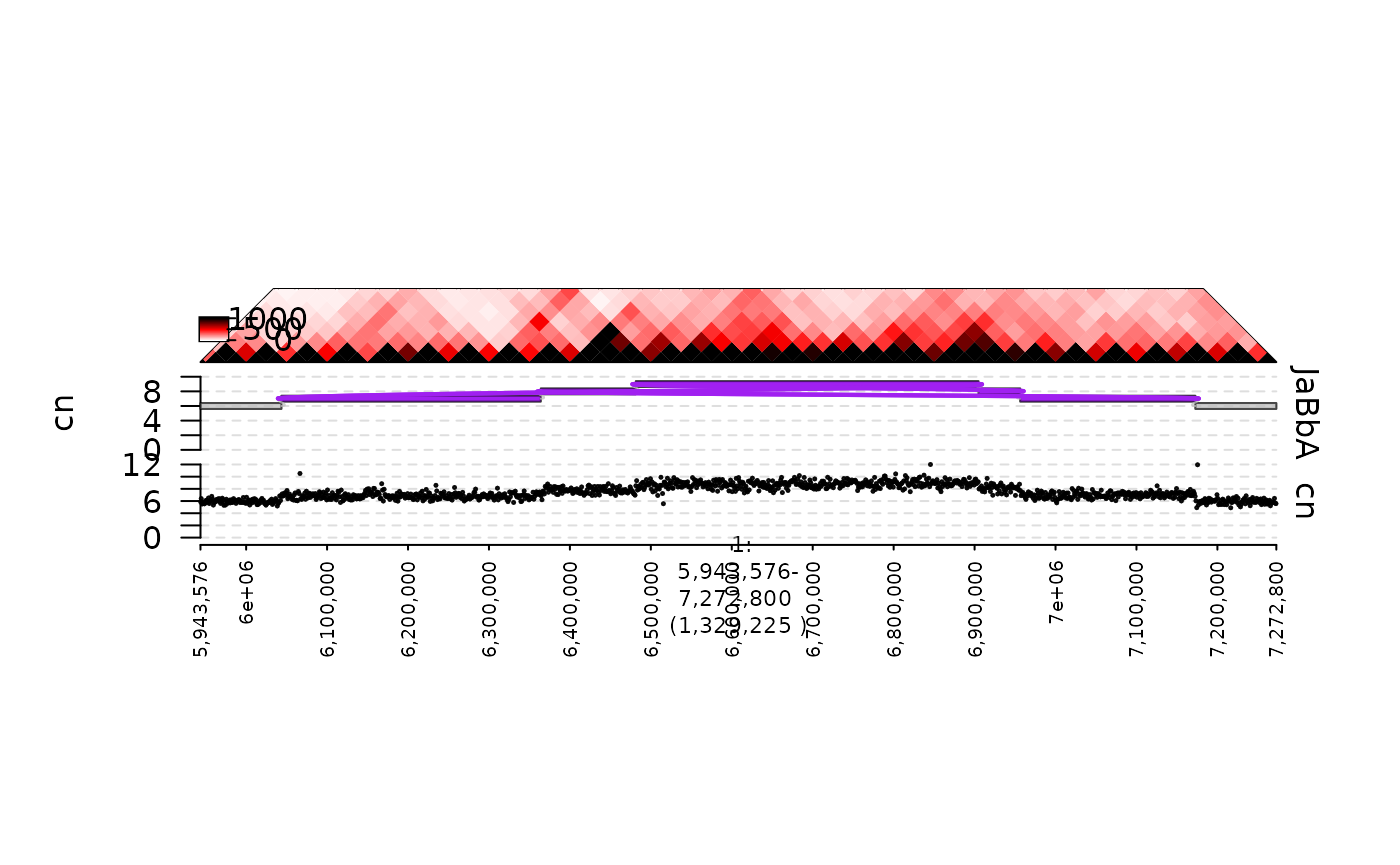
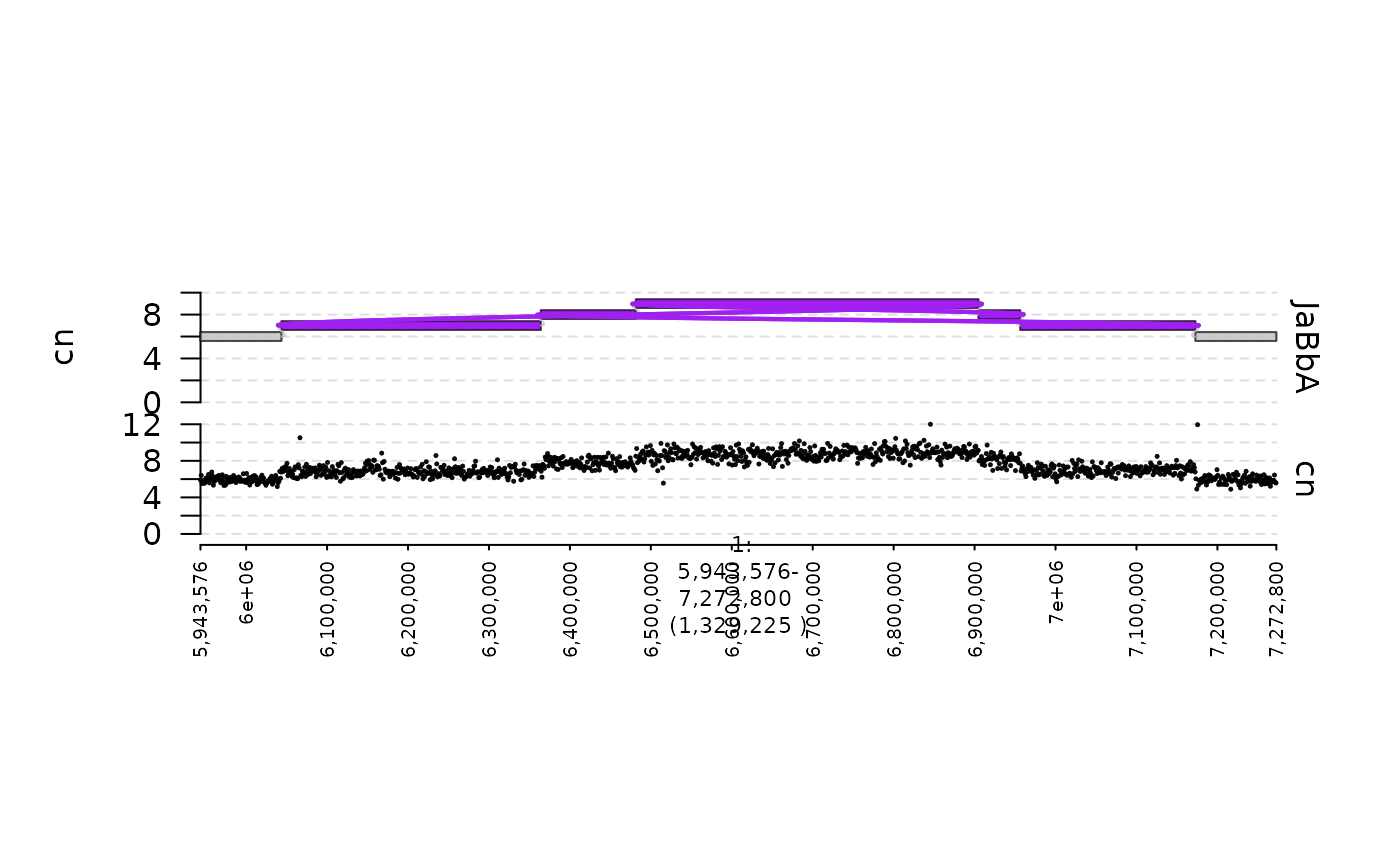
finish quickstart

Changed region(s): [[0.0921, 0.3121, 0.9521, 0.6243], [0.0307, 0.4682, 0.0614, 0.4994], [0.0307, 0.3746, 0.0614, 0.4058]]

diff --git a/docs/articles/quickstart.html b/docs/articles/quickstart.html
@@ -132,7 +132,7 @@
 <div class="section level3">
 <h3 id="multiple-plots">Multiple plots<a class="anchor" aria-label="anchor" href="#multiple-plots"></a>
 </h3>
-<p>A useful feature of <code>gTrack</code> objects is that multiple tracks can be concatenated to produce stacked subplots, as shown in the following example.</p>
+<p>A useful feature of <code>gTrack</code> objects is that multiple tracks can be concatenated to produce stacked subplots, as shown in the following example. The direction of concatenation is from the bottom up (so the first <code>gTrack</code> corresponds with the bottom-most subplot and the final <code>gTrack</code> corresponds with the top-most subplot).</p>
 <div class="sourceCode" id="cb5"><pre class="downlit sourceCode r">
 <code class="sourceCode R"><span><span class="va">concatenated.gt</span> <span class="op">=</span> <span class="fu"><a href="../reference/c-methods.html">c</a></span><span class="op">(</span><span class="va">coverage.gt</span>, <span class="va">coverage.bars.gt</span>, <span class="va">coverage.lines.gt</span><span class="op">)</span></span>
 <span></span>
@@ -155,39 +155,66 @@
 <p><img src="quickstart_files/figure-html/unnamed-chunk-7-1.png" width="700" height="10"></p>
 </div>
 <div class="section level2">
-<h2 id="matrix">Matrix<a class="anchor" aria-label="anchor" href="#matrix"></a>
+<h2 id="matrices">Matrices<a class="anchor" aria-label="anchor" href="#matrices"></a>
 </h2>
-<p>A <code>gTrack</code> can be created from a <code>GRanges</code> and corresponding <code>Matrix</code> in order to plot associations between two genomic ranges. One example of this would be a heatmap, where the color of each cell is proportional to some value defined by its corresponding genomic regions, such as number of shared read pairs.</p>
+<div class="section level3">
+<h3 id="heatmaps-mdata">Heatmaps (mdata)<a class="anchor" aria-label="anchor" href="#heatmaps-mdata"></a>
+</h3>
+<p>A <code>gTrack</code> can be created from a <code>GRanges</code> and a corresponding adjacency matrix in order to plot associations between two genomic ranges. One example of this would be a heatmap, where the color of each cell is proportional to some value defined by its corresponding genomic regions.</p>
+<p>In this example, we will create a heatmap of the number of shared read <code>qname</code>s between pairs of genomic intervals. We will read a <code>GRanges</code> and associated <code>matrix</code> and create a <code>gTrack</code> from these inputs, which we will plot alongside the coverage.</p>
+<p>As you can see, the off-diagonal elements correspond with copy number changep points in the coverage!</p>
+<div class="sourceCode" id="cb7"><pre class="downlit sourceCode r">
+<code class="sourceCode R"><span><span class="va">mdata.mat</span> <span class="op">=</span> <span class="fu"><a href="https://rdrr.io/r/base/readRDS.html" class="external-link">readRDS</a></span><span class="op">(</span><span class="fu"><a href="https://rdrr.io/r/base/system.file.html" class="external-link">system.file</a></span><span class="op">(</span><span class="st">"extdata"</span>, <span class="st">"ovcar.subgraph.mdata.mat.rds"</span>, package <span class="op">=</span> <span class="st">"gTrack"</span><span class="op">)</span><span class="op">)</span></span>
+<span><span class="va">mdata.gr</span> <span class="op">=</span> <span class="fu"><a href="https://rdrr.io/r/base/readRDS.html" class="external-link">readRDS</a></span><span class="op">(</span><span class="fu"><a href="https://rdrr.io/r/base/system.file.html" class="external-link">system.file</a></span><span class="op">(</span><span class="st">"extdata"</span>, <span class="st">"ovcar.subgraph.mdata.gr.rds"</span>, package <span class="op">=</span> <span class="st">"gTrack"</span><span class="op">)</span><span class="op">)</span></span>
+<span></span>
+<span><span class="va">heatmap.gt</span> <span class="op">=</span> <span class="fu"><a href="../reference/gTrack-class.html">gTrack</a></span><span class="op">(</span><span class="va">mdata.gr</span>, mdata <span class="op">=</span> <span class="va">mdata.mat</span>, cmap.max <span class="op">=</span> <span class="fl">10</span><span class="op">)</span></span>
+<span></span>
+<span><span class="fu"><a href="https://rdrr.io/r/graphics/plot.default.html" class="external-link">plot</a></span><span class="op">(</span><span class="fu"><a href="../reference/c-methods.html">c</a></span><span class="op">(</span><span class="va">coverage.gt</span>, <span class="va">heatmap.gt</span><span class="op">)</span>, <span class="va">fp</span> <span class="op">+</span> <span class="fl">1e5</span><span class="op">)</span></span></code></pre></div>
+<p><img src="quickstart_files/figure-html/unnamed-chunk-8-1.png" width="700" height="10"></p>
+</div>
+<div class="section level3">
+<h3 id="connections-edges">Connections (edges)<a class="anchor" aria-label="anchor" href="#connections-edges"></a>
+</h3>
+<p>Instead of a heatmap, it is also possible to plot the edges between genomic intervals by supplying an adjacency list. In this next example, we will plot edges associated with the off-diagonal squares in the previous heatmap.</p>
+<div class="sourceCode" id="cb8"><pre class="downlit sourceCode r">
+<code class="sourceCode R"><span><span class="va">edges.dat</span> <span class="op">=</span> <span class="fu"><a href="https://rdrr.io/r/base/readRDS.html" class="external-link">readRDS</a></span><span class="op">(</span><span class="fu"><a href="https://rdrr.io/r/base/system.file.html" class="external-link">system.file</a></span><span class="op">(</span><span class="st">"extdata"</span>, <span class="st">"ovcar.subgraph.edges.dat.rds"</span>, package <span class="op">=</span> <span class="st">"gTrack"</span><span class="op">)</span><span class="op">)</span></span>
+<span><span class="va">edges.gr</span> <span class="op">=</span> <span class="fu"><a href="https://rdrr.io/r/base/readRDS.html" class="external-link">readRDS</a></span><span class="op">(</span><span class="fu"><a href="https://rdrr.io/r/base/system.file.html" class="external-link">system.file</a></span><span class="op">(</span><span class="st">"extdata"</span>, <span class="st">"ovcar.subgraph.edges.gr.rds"</span>, package <span class="op">=</span> <span class="st">"gTrack"</span><span class="op">)</span><span class="op">)</span></span>
+<span></span>
+<span><span class="va">edges.gt</span> <span class="op">=</span> <span class="fu"><a href="../reference/gTrack-class.html">gTrack</a></span><span class="op">(</span><span class="va">edges.gr</span>, edges <span class="op">=</span> <span class="va">edges.dat</span><span class="op">)</span></span>
+<span></span>
+<span><span class="fu"><a href="https://rdrr.io/r/graphics/plot.default.html" class="external-link">plot</a></span><span class="op">(</span><span class="fu"><a href="../reference/c-methods.html">c</a></span><span class="op">(</span><span class="va">coverage.gt</span>, <span class="va">edges.gt</span><span class="op">)</span>, <span class="va">fp</span> <span class="op">+</span> <span class="fl">1e5</span><span class="op">)</span></span></code></pre></div>
+<p><img src="quickstart_files/figure-html/unnamed-chunk-9-1.png" width="700" height="10"></p>
+</div>
 </div>
 <div class="section level2">
 <h2 id="ggraph">gGraph<a class="anchor" aria-label="anchor" href="#ggraph"></a>
 </h2>
 <p><code>gGraph</code>s are genome graphs in which nodes represent (signed) genomic intervals, and edges represent adjacencies between those intervals (see our <code>gGnome</code> package <a href="https://github.com/mskilab/gGnome" class="external-link">here</a>!).</p>
 <p>A <code>gTrack</code> can be created from a <code>gGraph</code> using either the <code>$gt</code> active field or <code>$gtrack</code> method, as shown below. In this example, we will create a plot of a tumor <code>gGraph</code> and the associated coverage profile.</p>
-<div class="sourceCode" id="cb7"><pre class="downlit sourceCode r">
+<div class="sourceCode" id="cb9"><pre class="downlit sourceCode r">
 <code class="sourceCode R"><span><span class="va">gg</span> <span class="op">=</span> <span class="fu"><a href="https://rdrr.io/r/base/readRDS.html" class="external-link">readRDS</a></span><span class="op">(</span><span class="fu"><a href="https://rdrr.io/r/base/system.file.html" class="external-link">system.file</a></span><span class="op">(</span><span class="st">"extdata"</span>, <span class="st">"ovcar.subgraph.rds"</span>, package <span class="op">=</span> <span class="st">"gTrack"</span><span class="op">)</span><span class="op">)</span></span>
 <span><span class="fu"><a href="https://rdrr.io/r/graphics/plot.default.html" class="external-link">plot</a></span><span class="op">(</span><span class="fu"><a href="../reference/c-methods.html">c</a></span><span class="op">(</span><span class="va">coverage.gt</span>, <span class="va">gg</span><span class="op">$</span><span class="va">gt</span><span class="op">)</span>, <span class="va">fp</span> <span class="op">+</span> <span class="fl">1e5</span><span class="op">)</span></span></code></pre></div>
-<p><img src="quickstart_files/figure-html/unnamed-chunk-8-1.png" width="700" height="10"></p>
+<p><img src="quickstart_files/figure-html/unnamed-chunk-10-1.png" width="700" height="10"></p>
 </div>
 <div class="section level2">
 <h2 id="gwalk">gWalk<a class="anchor" aria-label="anchor" href="#gwalk"></a>
 </h2>
 <p><code>gWalk</code>s represent paths through a <code>gGraph</code>. Generally, they represent somatic haplotypes that could exist in a genome corresponding with a give <code>gGraph</code> (more details in the <code>gGnome</code> package!). Like <code>gGraph</code>s, <code>gWalk</code>s have active field <code>$gt</code> and method <code>$gtrack</code>, both of which will produce a <code>gTrack</code>.</p>
 <p>The following example plots a set of <code>gWalk</code>s associated with the <code>gGraph</code> plotted above.</p>
-<div class="sourceCode" id="cb8"><pre class="downlit sourceCode r">
+<div class="sourceCode" id="cb10"><pre class="downlit sourceCode r">
 <code class="sourceCode R"><span><span class="va">wks</span> <span class="op">=</span> <span class="fu"><a href="https://rdrr.io/r/base/readRDS.html" class="external-link">readRDS</a></span><span class="op">(</span><span class="fu"><a href="https://rdrr.io/r/base/system.file.html" class="external-link">system.file</a></span><span class="op">(</span><span class="st">"extdata"</span>, <span class="st">"ovcar.subgraph.walks.rds"</span>, package <span class="op">=</span> <span class="st">"gTrack"</span><span class="op">)</span><span class="op">)</span></span>
 <span><span class="fu"><a href="https://rdrr.io/r/graphics/plot.default.html" class="external-link">plot</a></span><span class="op">(</span><span class="fu"><a href="../reference/c-methods.html">c</a></span><span class="op">(</span><span class="va">coverage.gt</span>, <span class="va">gg</span><span class="op">$</span><span class="va">gt</span>, <span class="va">wks</span><span class="op">$</span><span class="va">gt</span><span class="op">)</span>, <span class="va">fp</span> <span class="op">+</span> <span class="fl">1e5</span><span class="op">)</span></span></code></pre></div>
-<p><img src="quickstart_files/figure-html/unnamed-chunk-9-1.png" width="700" height="10"></p>
+<p><img src="quickstart_files/figure-html/unnamed-chunk-11-1.png" width="700" height="10"></p>
 </div>
 <div class="section level2">
 <h2 id="gmatrix">gMatrix<a class="anchor" aria-label="anchor" href="#gmatrix"></a>
 </h2>
 <p><code>gMatrix</code> is an object implemented in the package <code>GxG</code> that facilitates analysis and visualization of paired genomic intervals. There are many use cases for <code>gMatrix</code>, but the one used in this example is Hi-C data, which consists of read counts shared by pairs of genomic bins. We will plot the Hi-C profile associated with this locus.</p>
 <p>Again, similar to <code>gWalk</code> and <code>gGraph</code>, a <code>gTrack</code> can be created for a <code>gMatrix</code> with the active field <code>$gt</code> or method <code>$gtrack</code>. Here we will use the <code>$gtrack</code> method to set a parameter for coloring the heatmap (<code>cmap.max</code>).</p>
-<div class="sourceCode" id="cb9"><pre class="downlit sourceCode r">
+<div class="sourceCode" id="cb11"><pre class="downlit sourceCode r">
 <code class="sourceCode R"><span><span class="va">gm</span> <span class="op">=</span> <span class="fu"><a href="https://rdrr.io/r/base/readRDS.html" class="external-link">readRDS</a></span><span class="op">(</span><span class="fu"><a href="https://rdrr.io/r/base/system.file.html" class="external-link">system.file</a></span><span class="op">(</span><span class="st">"extdata"</span>, <span class="st">"ovcar.subgraph.hic.rds"</span>, package <span class="op">=</span> <span class="st">"gTrack"</span><span class="op">)</span><span class="op">)</span></span>
 <span><span class="fu"><a href="https://rdrr.io/r/graphics/plot.default.html" class="external-link">plot</a></span><span class="op">(</span><span class="fu"><a href="../reference/c-methods.html">c</a></span><span class="op">(</span><span class="va">coverage.gt</span>, <span class="va">gg</span><span class="op">$</span><span class="va">gt</span>, <span class="va">gm</span><span class="op">$</span><span class="fu">gtrack</span><span class="op">(</span>cmap.max <span class="op">=</span> <span class="fl">1000</span><span class="op">)</span><span class="op">)</span>, <span class="va">fp</span> <span class="op">+</span> <span class="fl">1e5</span><span class="op">)</span></span></code></pre></div>
-<p><img src="quickstart_files/figure-html/unnamed-chunk-10-1.png" width="700" height="10"></p>
+<p><img src="quickstart_files/figure-html/unnamed-chunk-12-1.png" width="700" height="10"></p>
 </div>
   </div>
 
